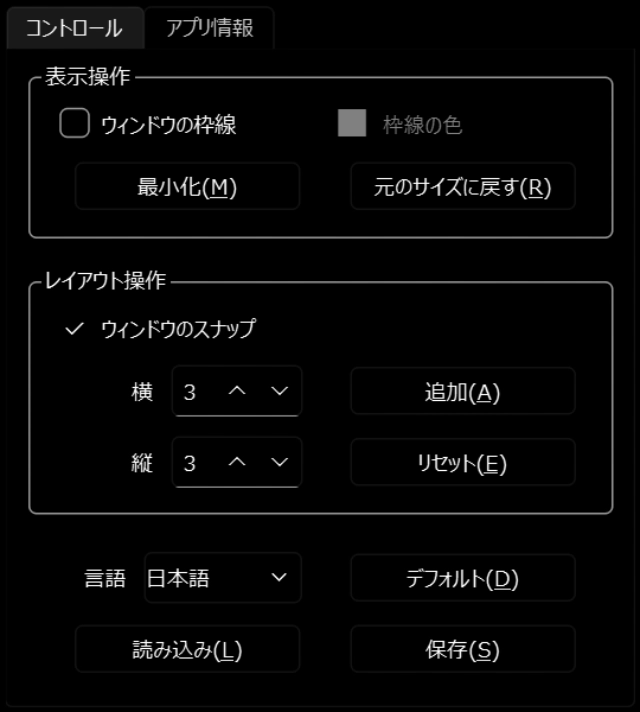
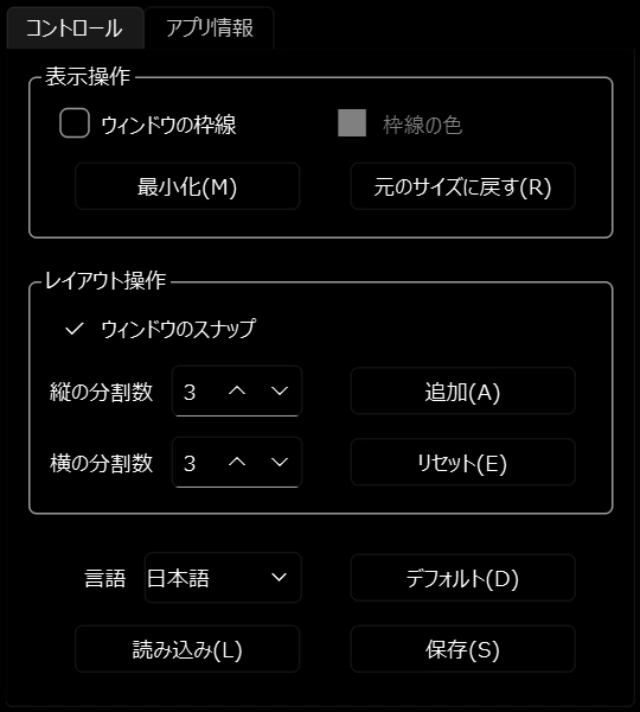
v2.0.0.0のアップロード

Changed region(s): [[0.0625, 0.618, 0.25, 0.6798], [0.0625, 0.5253, 0.25, 0.5871]]

diff --git a/index.html b/index.html
@@ -168,7 +168,7 @@
 <li><strong>特徴</strong> :
 ウィンドウから枠やタイトルバーを排除した「完全フレームレス」デザインの画像ビューアーです。スナップ(吸着)機能によりウィンドウ同士がピタッとくっつくため、手軽に隙間なく美しく並べられます。お気に入りの写真を画面いっぱいにレイアウトしてスクリーンショットを撮るだけで、あなただけのオリジナルの壁紙が完成します。</li>
 <li><strong>価格</strong> : 無料</li>
-<li><strong>最新バージョン</strong> : 1.0.0</li>
+<li><strong>最新バージョン</strong> : 2.0.0</li>
 <li><strong>Webサイト</strong> : <a href="https://nyarihey.github.io/SeaGlassMemories/">https://nyarihey.github.io/SeaGlassMemories/</a></li>
 <li><strong>Microsoft Store</strong> : <a href="https://apps.microsoft.com/store/detail/9PFTGW19Z1H1">https://apps.microsoft.com/store/detail/9PFTGW19Z1H1</a>
 <br>
@@ -254,14 +254,14 @@
 <tr>
 <td style="text-align:left"></td>
 <td style="text-align:left"></td>
-<td style="text-align:left">横</td>
+<td style="text-align:left">横の分割数</td>
 <td style="text-align:left">－</td>
 <td style="text-align:left">追加/リセット時のウィンドウの幅を指定します。画面の横幅を指定した数で等分した幅になります。</td>
 </tr>
 <tr>
 <td style="text-align:left"></td>
 <td style="text-align:left"></td>
-<td style="text-align:left">縦</td>
+<td style="text-align:left">縦の分割数</td>
 <td style="text-align:left">－</td>
 <td style="text-align:left">追加/リセット時のウィンドウの高さを指定します。画面の高さを指定した数で等分した高さになります。</td>
 </tr>
@@ -309,10 +309,10 @@
 </tr>
 <tr>
 <td style="text-align:left">アプリ情報</td>
+<td style="text-align:left"></td>
+<td style="text-align:left">アプリ名・バージョン・著作権情報</td>
 <td style="text-align:left">－</td>
-<td style="text-align:left">－</td>
-<td style="text-align:left">－</td>
-<td style="text-align:left">本アプリのバージョン、著作権情報を確認できます。</td>
+<td style="text-align:left">本アプリの名前、バージョン、著作権情報を確認できます。</td>
 </tr>
 <tr>
 <td style="text-align:left"></td>
@@ -339,47 +339,143 @@
 </table>
 <h3 id="32-ウィンドウ">3.2 ウィンドウ</h3>
 <p>ウィンドウの操作方法について説明します。</p>
-<img src="images/window_close_button.png" width="640" alt="画像">
+<img src="images/window.png" width="1280" alt="画像">
 <br>
 <br>
 <table>
 <thead>
 <tr>
-<th style="text-align:left">機能</th>
+<th style="text-align:left">モード</th>
+<th style="text-align:left">項目名</th>
 <th style="text-align:left">操作方法</th>
 <th style="text-align:left">説明</th>
 </tr>
 </thead>
 <tbody>
 <tr>
-<td style="text-align:left">画像ファイルの読み込み</td>
-<td style="text-align:left">ドラッグ＆ドロップ</td>
-<td style="text-align:left">サポートされている画像ファイルをウィンドウ内にドロップすると、画像が表示されます。</td>
+<td style="text-align:left">共通</td>
+<td style="text-align:left">ウィンドウ</td>
+<td style="text-align:left">画像ファイルをドラッグ＆ドロップ</td>
+<td style="text-align:left">ウィンドウ内に、サポートされている画像ファイルをドラッグ＆ドロップすると、画像が表示されます。</td>
 </tr>
 <tr>
-<td style="text-align:left">ウィンドウを閉じる</td>
-<td style="text-align:left">マウスホバー ＋ 左クリック</td>
-<td style="text-align:left">ウィンドウ内の右上端にマウスカーソルを合わせると「×」ボタンが表示されます。押すとウィンドウが閉じます。</td>
+<td style="text-align:left"></td>
+<td style="text-align:left"></td>
+<td style="text-align:left">枠線または角を左クリック ＋ ドラッグ</td>
+<td style="text-align:left">ウィンドウのサイズを自由に変更できます。</td>
 </tr>
 <tr>
-<td style="text-align:left">ウィンドウの移動</td>
+<td style="text-align:left"></td>
+<td style="text-align:left">編集</td>
+<td style="text-align:left">左クリック</td>
+<td style="text-align:left">「編集モード」と「表示モード」を切り替えます。</td>
+</tr>
+<tr>
+<td style="text-align:left"></td>
+<td style="text-align:left">ピン留め</td>
+<td style="text-align:left">左クリック</td>
+<td style="text-align:left">ウィンドウを常に手前に表示します。</td>
+</tr>
+<tr>
+<td style="text-align:left"></td>
+<td style="text-align:left">閉じる</td>
+<td style="text-align:left">左クリック</td>
+<td style="text-align:left">ウィンドウを閉じます。</td>
+</tr>
+<tr>
+<td style="text-align:left">表示モード</td>
+<td style="text-align:left">ウィンドウ</td>
 <td style="text-align:left">左クリック ＋ ドラッグ</td>
-<td style="text-align:left">ウィンドウ内の任意の場所を左クリックしたままドラッグすると、ウィンドウを画面内の自由な位置に移動できます。</td>
+<td style="text-align:left">ウィンドウを画面内の自由な位置に移動できます。</td>
 </tr>
 <tr>
-<td style="text-align:left">ポップアップメニューの表示</td>
+<td style="text-align:left"></td>
+<td style="text-align:left"></td>
 <td style="text-align:left">右クリック</td>
 <td style="text-align:left">画像を表示したウィンドウ内で右クリックすると、画像操作用のポップアップメニューが表示されます。</td>
 </tr>
 <tr>
+<td style="text-align:left">編集モード</td>
+<td style="text-align:left">ウィンドウ</td>
+<td style="text-align:left">左クリック</td>
+<td style="text-align:left">テキスト入力位置を移動します。</td>
+</tr>
+<tr>
+<td style="text-align:left"></td>
+<td style="text-align:left"></td>
+<td style="text-align:left">右クリック</td>
+<td style="text-align:left">入力中のテキストを編集するためのコンテキストメニューを表示します。「元に戻す」、「やり直し」、「切り取り」、「コピー」、「貼り付け」、「削除」、「すべて選択」の操作が可能です。</td>
+</tr>
+<tr>
+<td style="text-align:left"></td>
+<td style="text-align:left">フォント名</td>
+<td style="text-align:left">左クリック</td>
+<td style="text-align:left">文字のフォントを切り替えられます。</td>
+</tr>
+<tr>
+<td style="text-align:left"></td>
+<td style="text-align:left">フォントサイズ</td>
+<td style="text-align:left">左クリック</td>
+<td style="text-align:left">文字のサイズを切り替えられます。</td>
+</tr>
+<tr>
+<td style="text-align:left"></td>
+<td style="text-align:left">太字</td>
+<td style="text-align:left">左クリック</td>
+<td style="text-align:left">文字を太字で入力できます。</td>
+</tr>
+<tr>
+<td style="text-align:left"></td>
+<td style="text-align:left">斜体</td>
+<td style="text-align:left">左クリック</td>
+<td style="text-align:left">右側に傾いた文字を入力できます。</td>
+</tr>
+<tr>
+<td style="text-align:left"></td>
+<td style="text-align:left">下線</td>
+<td style="text-align:left">左クリック</td>
+<td style="text-align:left">下線が引かれた文字を入力できます。</td>
+</tr>
+<tr>
+<td style="text-align:left"></td>
+<td style="text-align:left">取り消し線</td>
+<td style="text-align:left">左クリック</td>
+<td style="text-align:left">取り消し線が引かれた文字を入力できます。</td>
+</tr>
+<tr>
+<td style="text-align:left"></td>
+<td style="text-align:left">文字色</td>
+<td style="text-align:left">左クリック</td>
+<td style="text-align:left">文字色を変更するカラーパレットを開きます。</td>
+</tr>
+<tr>
+<td style="text-align:left"></td>
+<td style="text-align:left">画像選択</td>
+<td style="text-align:left">左クリック</td>
+<td style="text-align:left">表示する画像を選択できます。</td>
+</tr>
+<tr>
+<td style="text-align:left"></td>
+<td style="text-align:left">背景色</td>
+<td style="text-align:left">左クリック</td>
+<td style="text-align:left">背景色を変更するカラーパレットを開きます。</td>
+</tr>
+<tr>
+<td style="text-align:left"></td>
+<td style="text-align:left">背景のぼかし効果</td>
+<td style="text-align:left">左クリック</td>
+<td style="text-align:left">背景のぼかし効果あり/なしを切り替えます。</td>
+</tr>
+<tr>
 <td style="text-align:left"><br></td>
+<td style="text-align:left"></td>
 <td style="text-align:left"></td>
 <td style="text-align:left"></td>
 </tr>
 </tbody>
 </table>
 <h3 id="33-ポップアップメニュー">3.3 ポップアップメニュー</h3>
-<p>ポップアップメニューの項目と、項目が選択されているときの操作方法について説明します。</p>
+<p>表示モード中に、画像を表示したウィンドウ内で右クリックすると、表示倍率モードを切り替えるポップアップメニューが開きます。項目を選択したあと、以下の操作で表示を調整できます。</p>
 <img src="images/popup_menu(ja).png" width="224" alt="画像">
 <br>
 <br>
@@ -394,28 +490,28 @@
 <tbody>
 <tr>
 <td style="text-align:left">幅に合わせる</td>
-<td style="text-align:left">ウィンドウの左右の端をドラッグ</td>
-<td style="text-align:left">画像をウィンドウの横幅にフィッティングさせながら拡大・縮小できます。</td>
+<td style="text-align:left">ウィンドウの枠線または角を左クリック ＋ ドラッグ</td>
+<td style="text-align:left">ウィンドウの横幅に合わせて画像を拡大・縮小します。</td>
 </tr>
 <tr>
 <td style="text-align:left">高さに合わせる</td>
-<td style="text-align:left">ウィンドウの上下の端をドラッグ</td>
-<td style="text-align:left">画像をウィンドウの高さにフィッティングさせながら拡大・縮小できます。</td>
+<td style="text-align:left">ウィンドウの枠線または角を左クリック ＋ ドラッグ</td>
+<td style="text-align:left">ウィンドウの高さに合わせて画像を拡大・縮小します。</td>
 </tr>
 <tr>
 <td style="text-align:left">自由倍率</td>
-<td style="text-align:left">マウスホイール</td>
-<td style="text-align:left">画像を自由に拡大・縮小できます。</td>
+<td style="text-align:left"><code>Ctrl</code> + マウスホイール</td>
+<td style="text-align:left">画像を自由に拡大・縮小します。</td>
 </tr>
 <tr>
 <td style="text-align:left"></td>
-<td style="text-align:left">右クリック ＋ ドラッグ</td>
-<td style="text-align:left">画像の表示位置をウィンドウ内で自由に動かせます。</td>
+<td style="text-align:left">ウィンドウ内を右クリック ＋ ドラッグ</td>
+<td style="text-align:left">画像の表示位置をウィンドウ内で移動します(※)。</td>
 </tr>
 <tr>
 <td style="text-align:left"></td>
-<td style="text-align:left">左ダブルクリック</td>
-<td style="text-align:left">画像をウィンドウの短辺にフィットするサイズにリセットします。</td>
+<td style="text-align:left">ウィンドウ内を左ダブルクリック</td>
+<td style="text-align:left">画像の表示サイズを「ウィンドウの短辺にフィットするサイズ」へリセットします(※)。</td>
 </tr>
 <tr>
 <td style="text-align:left"><br></td>
@@ -424,6 +520,9 @@
 </tr>
 </tbody>
 </table>
+<p>※『自由倍率』選択時のみ、画像表示の位置移動とリセットが有効です。
+<br>
+<br></p>
 <h2 id="4-よくある質問-faq">4. よくある質問 <small>(FAQ)</small></h2>
 <h3 id="q-アプリの利用料金はかかりますか">Q. アプリの利用料金はかかりますか？</h3>
 <p><strong>A.</strong> 完全無料(フリーソフト)です。追加の課金要素などもありません。</p>
@@ -467,11 +566,12 @@
 <p>操作方法や仕様については本ヘルプや「よくある質問(FAQ)」をご確認ください。</p>
 </li>
 <li>
-<p>不具合報告の際は「動作環境」、「発生手順」、「エラー画面のスクリーンショット」、「設定ファイル」等を添えていただけますと幸いです。</p>
+<p>不具合報告の際は「動作環境」、「発生手順」、「エラー画面のスクリーンショット」、「設定ファイル」等を添えていただけますと幸いです。
+<br>
+<br></p>
 </li>
 </ul>
 </blockquote>
-<br>
 <h2 id="6-プライバシーポリシー-privacy-policy">6. プライバシーポリシー <small>(Privacy Policy)</small></h2>
 <p>本アプリは、ユーザーの個人情報、閲覧履歴、画像データ、およびデバイス情報を一切収集・送信いたしません。すべての処理および設定ファイルの保存は、お使いの端末ローカル環境内で完結します。
 <br>
@@ -493,6 +593,12 @@
 <br></li>
 </ul>
 <h2 id="9-更新履歴-release-notes">9. 更新履歴 <small>(Release Notes)</small></h2>
+<h3 id="v200-20261123"><strong>v2.0.0</strong> (2026/11/23)</h3>
+<ul>
+<li>リッチテキスト編集機能を追加</li>
+<li>ウィンドウのピン留め機能を追加</li>
+<li>ウィンドウの背景色や透明度の変更と「ぼかし効果」あり/なしの切り替えに対応</li>
+</ul>
 <h3 id="v100-20261008"><strong>v1.0.0</strong> (2026/10/08)</h3>
 <ul>
 <li>初版リリース
